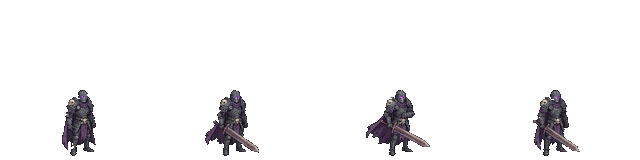
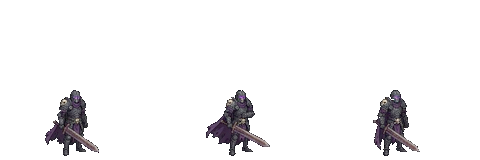
Calavera ígnea, Sepulturero, Abominación de huesos, Lobo corrupto y El Prior Hueco (con segunda fase) animados; reposo más lento y de ida y vuelta; caballero sin el dibujo sin espada
Claude-Session: https://claude.ai/code/session_0196gNip9NGTyAzzxweUdqYK

Changed region(s): [[0.3125, 0.5625, 0.6875, 0.9688], [0.7812, 0.5625, 0.9062, 0.9688], [0.0938, 0.5625, 0.2188, 0.9688]]

diff --git a/src/render/board.ts b/src/render/board.ts
@@ -129,9 +129,17 @@ const SHEETS: Record<string, Sheet> = {
   // Arquero óseo: lámina dibujada con IA (tools/arte/hoja_ia.py), una dirección; suelta la flecha en el 5.º fotograma de 8
   arquero: { ...sheet('boneArcher', { idle: 6, walk: 10, attack: 8, hurt: 5, death: 6 }, 96, [48, 92], 2, 1), head: 66, actMs: 800, release: 4 / 8 },
   // Caballero sepulcral: lámina JPG con fondo gris (se quita rellenando desde los bordes), celdas de 160; el tajo llega en el 5.º fotograma
-  caballero: { ...sheet('knight', { idle: 4, walk: 8, attack: 8, hurt: 4, death: 6 }, 160, [80, 156], 2, 1), head: 66, actMs: 800, release: 4 / 8 },
+  caballero: { ...sheet('knight', { idle: 3, walk: 8, attack: 8, hurt: 4, death: 6 }, 160, [80, 156], 2, 1), head: 66, actMs: 800, release: 4 / 8 },
   // Momia del osario: lámina JPG con fondo gris oscuro (quitado), celdas de 160; el zarpazo llega en el 5.º fotograma de 8
   momia: { ...sheet('mummy', { idle: 4, walk: 9, attack: 8, hurt: 3, death: 5 }, 160, [80, 156], 2, 1), head: 68, actMs: 800, release: 4 / 8 },
+  // láminas dibujadas con IA (tools/arte/detectar.py + hoja_ia.py), una dirección
+  calavera: { ...sheet('calavera', { idle: 4, walk: 8, attack: 7, hurt: 3, death: 7 }, 96, [48, 92], 2, 1), head: 40, actMs: 800, release: 4 / 7 },
+  sepulturero: { ...sheet('sepulturero', { idle: 4, walk: 7, attack: 6, cast: 6, hurt: 3, death: 6 }, 96, [48, 92], 2, 1), head: 52, actMs: 800, release: 3 / 6 },
+  abominacion: { ...sheet('abominacion', { idle: 3, walk: 8, attack: 4, cast: 4, hurt: 3, death: 4 }, 160, [80, 156], 2, 1), head: 86, actMs: 900, release: 2 / 4 },
+  lobo: { ...sheet('lobo', { idle: 6, walk: 6, attack: 6, cast: 4, hurt: 2, death: 6 }, 144, [72, 140], 2, 1), head: 54, actMs: 700, release: 3 / 6 },
+  // El Prior Hueco: en la fase 2 cambia de hoja («prior2»); su «cast» es la transformación
+  prior: { ...sheet('prior', { idle: 4, walk: 3, attack: 4, hurt: 3, death: 5 }, 160, [80, 156], 2, 1), head: 76, actMs: 900, release: 3 / 4 },
+  prior2: { ...sheet('prior2', { idle: 4, walk: 3, attack: 4, cast: 5, hurt: 3, death: 4 }, 160, [80, 156], 2, 1), head: 84, actMs: 900, release: 3 / 4 },
   tejedora: withHead(sheet('weaver', { idle: 12, walk: 8, attack: 10, hurt: 8, death: 12 }, 159, [80, 84]), 27),
   // Tiny Enemies
   espectro: tiny('espectro', T4), gargola: tiny('gargola', T4), necrofago: tiny('necrofago', T4), acolito: tiny('acolito', T4),
@@ -144,8 +152,8 @@ const HERO_SHEETS: Record<string, Sheet> = {
   // a 3×: unos 96 px de alto; tensa el arco y suelta la flecha en el 7.º fotograma (de 7)
   arquero: { ...sheet('archer', { idle: 4, walk: 8, attack: 7, cast: 4, hurt: 2, death: 8 }, 64, [32, 48], 3, 1), actMs: 800, release: 6 / 7, arrow: art('iso/units/archer_arrow.png'), arrowY: 23, head: 32 },
 };
-const sheetOf = (u: { kind: string; team: string; summoner?: number }): Sheet | undefined =>
-  u.team === 'enemy' ? SHEETS[u.kind] : u.summoner === undefined ? HERO_SHEETS[u.kind] : undefined;
+const sheetOf = (u: { kind: string; team: string; summoner?: number; phase?: number }): Sheet | undefined =>
+  u.team === 'enemy' ? ((u.phase ?? 1) >= 2 && SHEETS[`${u.kind}2`]) || SHEETS[u.kind] : u.summoner === undefined ? HERO_SHEETS[u.kind] : undefined;
 const sheetReady = (s: Sheet): boolean => Object.values(s.img).every(ready);
 /** alto del personaje sobre sus pies, en pantalla */
 const sheetHeight = (s: Sheet): number => (s.head ?? s.foot[1]) * s.scale;
@@ -472,7 +480,12 @@ export class Board {
       else if (e.t === 'devour') float(e.unit, 'Devora', '#c9a0ff');
       else if (e.t === 'raise') float(e.unit, 'Alza muertos', '#c9a0ff');
       else if (e.t === 'summon') float(e.unit, 'Invocado', '#c77dff');
-      else if (e.t === 'phase') float(e.unit, '¡FASE 2!', '#ff3060');
+      else if (e.t === 'phase') {
+        float(e.unit, '¡FASE 2!', '#ff3060');
+        // hojas con segunda fase: se ve la transformación (su animación de lanzar)
+        const pu = c.units.find((x) => x.id === e.unit), ps = pu && SHEETS[`${pu.kind}2`];
+        if (ps?.frames.cast) this.acts.set(e.unit, { t0: now, anim: 'special' as Anim, ms: 1400 });
+      }
       else if (e.t === 'detonate') float(e.unit, `¡Marca de la muerte! ${e.amount}`, '#ff3a4a');
       else if (e.t === 'caged') float(e.unit, '¡La caja!', '#7fe0b0');
       else if (e.t === 'reset') float(e.unit, `¡Remate! ${SPELLS[e.spell]?.name ?? ''} gratis`, '#4ad0ff');
@@ -681,11 +694,13 @@ export class Board {
     }
     dir ??= 0; this.facing.set(u.id, dir);
     const n = (a: SheetAnim): number => sh.frames[a] ?? 1;
-    let anim: SheetAnim = 'idle', fr = Math.floor(now / 125 + u.id * 3) % n('idle');
+    // reposo: ciclo de ida y vuelta (0 1 2 3 2 1…) y lento, unos 1,2 s por vuelta sea cual sea el número de dibujos
+    const ni = n('idle'), idleMs = Math.max(170, 1200 / ni), loop = ni > 2 ? ni * 2 - 2 : ni, step = Math.floor((now + u.id * 397) / idleMs) % loop;
+    let anim: SheetAnim = 'idle', fr = step < ni ? step : loop - step;
     // hechizos sin daño: animación de lanzar si la hoja la tiene
     if (ac && ak < 1) { anim = ac.anim !== 'attack' && sh.frames.cast ? 'cast' : 'attack'; fr = Math.min(n(anim) - 1, Math.floor(ak * n(anim))); }
     else if (hurt < 500) { anim = 'hurt'; fr = Math.min(n('hurt') - 1, Math.floor(hurt / 120)); }
-    else if (moving) { anim = 'walk'; fr = Math.floor(now / 100) % n('walk'); }
+    else if (moving) { anim = 'walk'; fr = Math.floor(now / Math.max(90, 800 / n('walk'))) % n('walk'); }
     this.sheetFrame(c, sh, anim, fr, dir, s.x, s.y, u.statuses.invis ? 0.4 : 1, this.flashing(u.id, now));
     this.upright(s.x, s.y);
   }

diff --git a/tools/arte/detectar.py b/tools/arte/detectar.py
@@ -1,0 +1,62 @@
+"""
+Quita el fondo de una lámina y detecta los fotogramas por filas.
+
+  python3 detectar.py LAMINA SALIDA_LIMPIA.png MODO [x_min] [dilatar]
+
+MODO: «borde» (fondo liso: relleno desde los bordes), «oscuro» (quita todo lo casi negro y poco saturado),
+«cuadros» (cuadriculado gris pintado: quita lo gris poco saturado y claro).
+Imprime las filas (de arriba abajo) con sus recuadros [y0, x0, y1, x1] de izquierda a derecha, en JSON.
+"""
+import json, sys
+import numpy as np
+from PIL import Image
+from scipy import ndimage
+
+
+def clean(src, mode):
+    a = np.array(Image.open(src).convert('RGB')).astype(int)
+    sat = a.max(2) - a.min(2); lum = a.mean(2)
+    if mode == 'oscuro':
+        bg = (lum < 42) & (sat < 22)
+    elif mode == 'cuadros':
+        bg = (sat < 16) & (lum > 95) & (lum < 215)
+    else:
+        ref = np.median(np.concatenate([a[:6].reshape(-1, 3), a[-6:].reshape(-1, 3)]), axis=0)
+        cand = np.abs(a - ref).max(2) <= 14
+        lab, _ = ndimage.label(cand)
+        edge = set(lab[0]) | set(lab[-1]) | set(lab[:, 0]) | set(lab[:, -1]); edge.discard(0)
+        bg = np.isin(lab, list(edge))
+        isl = cand & ~bg; il, k = ndimage.label(isl); sz = ndimage.sum(isl, il, range(1, k + 1))
+        bg |= np.isin(il, [i + 1 for i, s in enumerate(sz) if s > 300])
+    alpha = np.where(bg, 0, 255).astype(np.uint8)
+    return np.dstack([a.astype(np.uint8), alpha])
+
+
+def frames(rgba, x_min=0, dil=6, min_area=2500):
+    m = rgba[..., 3] > 0
+    m[:, :x_min] = False
+    lab, _ = ndimage.label(ndimage.binary_dilation(m, iterations=dil))
+    bs = []
+    for sl in ndimage.find_objects(lab):
+        h, w = sl[0].stop - sl[0].start, sl[1].stop - sl[1].start
+        if h * w >= min_area and h > 30: bs.append([sl[0].start, sl[1].start, sl[0].stop, sl[1].stop])
+    rows = []
+    for b in sorted(bs, key=lambda b: (b[0] + b[2]) / 2):
+        cy = (b[0] + b[2]) / 2
+        for r in rows:
+            if abs(r['cy'] - cy) < (b[2] - b[0]) * 0.45: r['b'].append(b); break
+        else: rows.append({'cy': cy, 'b': [b]})
+    out = []
+    for r in rows:
+        bb = sorted(r['b'], key=lambda b: b[1])
+        y0 = min(b[0] for b in bb); y1 = max(b[2] for b in bb)
+        out.append([[y0, b[1], y1, b[3]] for b in bb])
+    return out
+
+
+if __name__ == '__main__':
+    a = sys.argv
+    rgba = clean(a[1], a[3])
+    Image.fromarray(rgba).save(a[2])
+    rows = frames(rgba, int(a[4]) if len(a) > 4 else 0, int(a[5]) if len(a) > 5 else 6)
+    for i, r in enumerate(rows): print(i, len(r), json.dumps(r))

diff --git a/tools/arte/LEEME.md b/tools/arte/LEEME.md
@@ -52,3 +52,6 @@ Arquero óseo: lámina con transparencia, montada con `hoja_ia.py lamina.png pub
 Caballero sepulcral: lámina JPG con fondo gris liso (31, 32, 34): se quita rellenando desde los bordes (tolerancia 12) más los huecos interiores grandes (> 350 px). Recuadros en tools/arte/recuadros/caballero_sepulcral.json; `hoja_ia.py … knight … 0.5 160`; aclarado (gamma 0.72 ×1.08) porque se confundía con el suelo.
 `hoja_ia.py` ya no desplaza el fotograma si algo se sale de la celda (lo recorta y avisa) y quita los trozos del fotograma vecino pegados al borde del recuadro.
 Momia del osario: lámina JPG con fondo gris oscuro (29, 29, 29), quitado igual que el del caballero; ataque recortado por manchas (fotogramas desiguales). `hoja_ia.py … mummy … 0.24 160`.
+
+`detectar.py LAMINA LIMPIA.png MODO [x_min]` quita el fondo (borde / oscuro / cuadros) y detecta los fotogramas por filas; los recuadros de cada criatura están en tools/arte/recuadros/. Calavera ígnea, Sepulturero (su colocar trampa = «cast»), Abominación de huesos (reposo solo con los dibujos que llevan guadaña), Lobo corrupto (aullido = «cast») y El Prior Hueco (fase 1 «prior», fase 2 «prior2», cuyo «cast» es la transformación y se ve al cambiar de fase). Sepulturero y Prior aclarados (gamma 0.75 ×1.08).
+Reposo: ida y vuelta (0 1 2 3 2 1…), unos 1,2 s por vuelta; andar: unos 0,8 s por vuelta. El reposo del caballero va sin el dibujo que no tenía espada.
